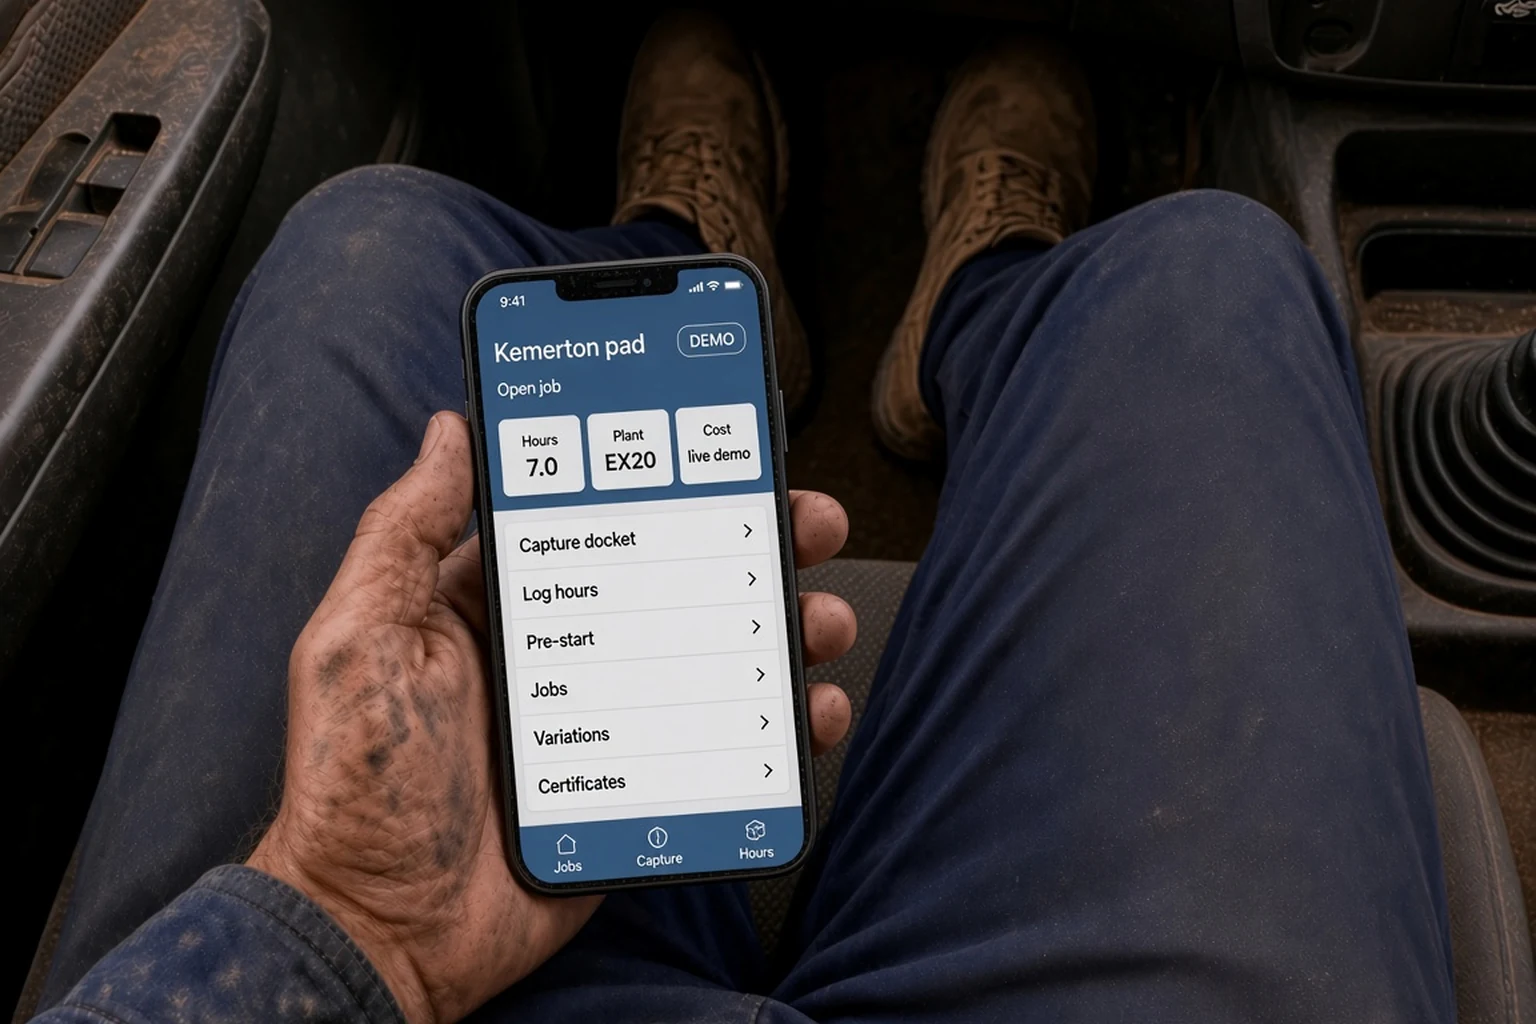
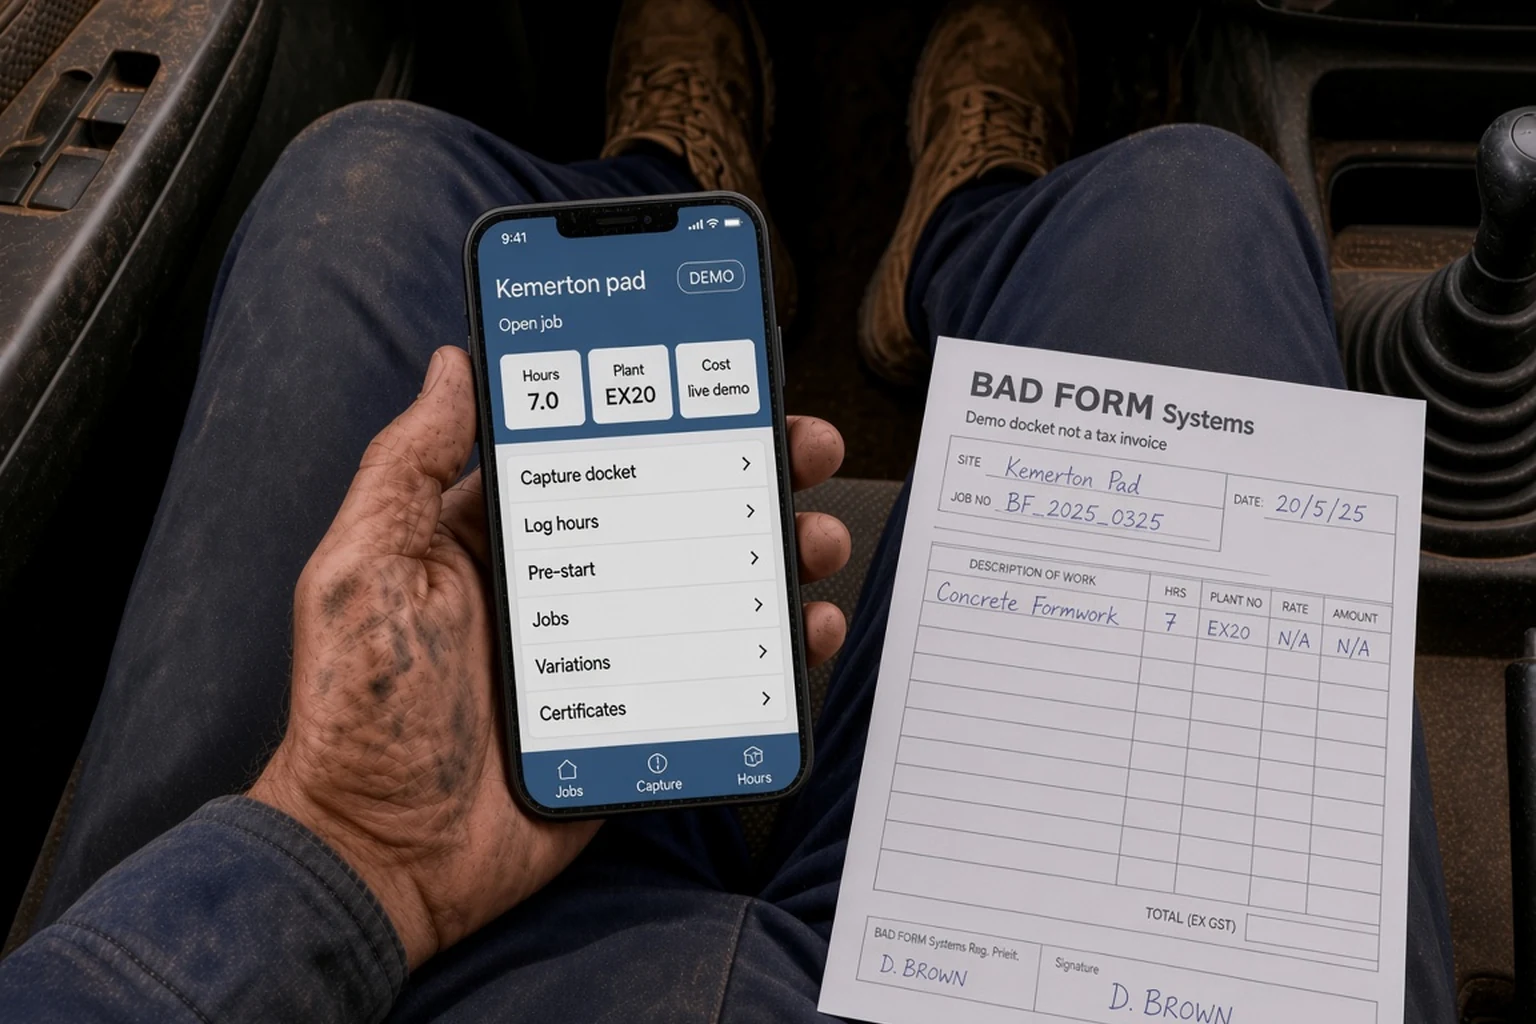
Put the paper docket back on the cab stills.
Native day and dusk cab photographs keep the built-out field IMS in the glass and restore the paper docket on the thigh so capture still reads as paper to phone. Homepage stills stay on rollback.

diff --git a/src/components/lab/ims/ImsCompare.tsx b/src/components/lab/ims/ImsCompare.tsx
@@ -96,13 +96,13 @@ export function ImsCompare() {
       src: imsCopy.stills.cabDay,
       label: "Cab · daylight keeper",
       objectPositionClass: imsCopy.stills.cabObjectPositionClass,
-      alt: "Daylight cab photograph with a built-out field IMS on the phone.",
+      alt: "Daylight cab photograph with a built-out field IMS on the phone and a paper docket on the thigh.",
     },
     {
       src: imsCopy.stills.cabDusk,
       label: "Cab · dusk keeper",
       objectPositionClass: imsCopy.stills.cabObjectPositionClass,
-      alt: "Dusk cab photograph with a built-out field IMS on the phone.",
+      alt: "Dusk cab photograph with a built-out field IMS on the phone and a paper docket on the thigh.",
     },
     {
       src: imsCopy.stills.officeDay,
@@ -150,7 +150,8 @@ export function ImsCompare() {
         <h2 className="type-title mb-3 text-2xl">Keeper stills</h2>
         <p className="type-body mb-8 text-brand-steel">
           Native cab and office photographs with a built-out IMS in the glass, cropped for the
-          homepage still frame. Live homepage files stay on rollback until a pair is chosen.
+          homepage still frame. Cab stills keep the paper docket on the thigh so capture still
+          reads as paper to phone. Live homepage files stay on rollback until a pair is chosen.
           Default look after review: dusk in the cab, daylight in the office.
         </p>
         <div className="grid gap-6 md:grid-cols-2">
